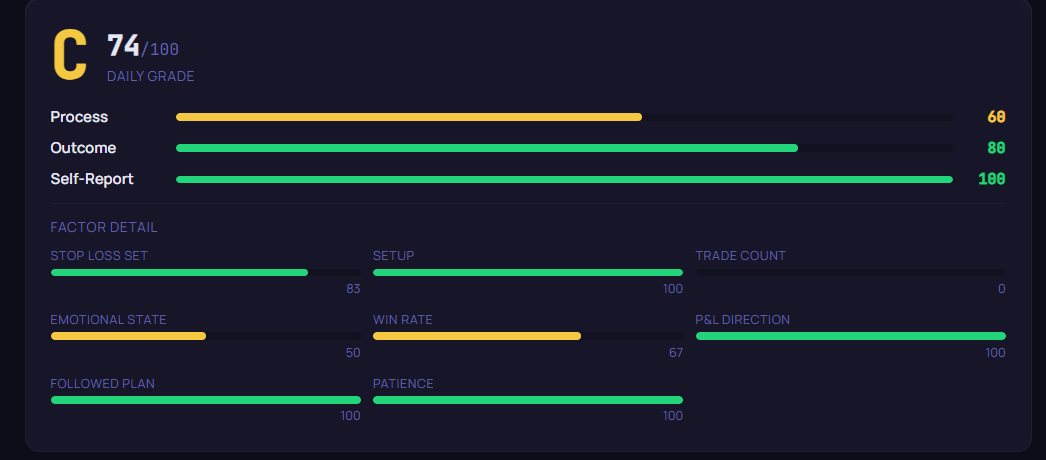
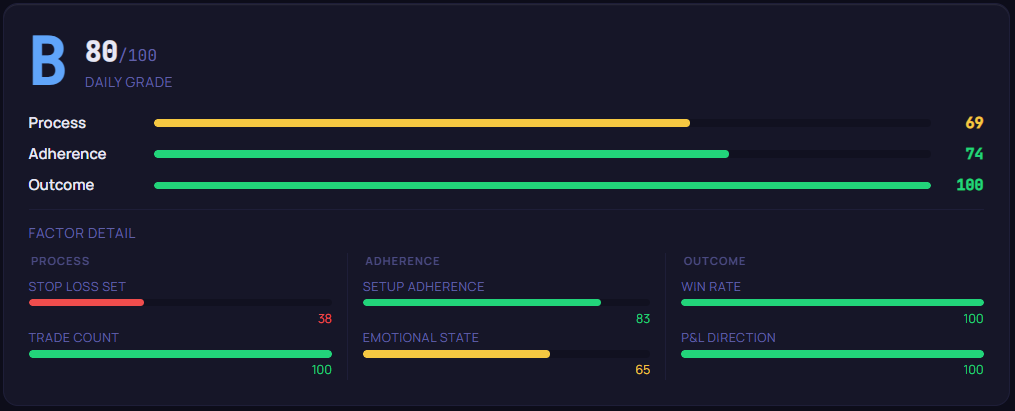
feat: add feature showcase section and update screenshots for new grading system
- Replace hero screenshot with daily review grade card
- Replace report card screenshot with monthly report card
- Add log-entry-checklist.png and setups-settings.png as new assets
- Add 2-column feature showcase section between How It Works and Every Month
- Update CSS with section-features and features-grid (responsive to 1-col on mobile)
- Update hero img alt text

diff --git a/index.html b/index.html
@@ -38,7 +38,7 @@
           <div class="screenshot-frame screenshot-frame--glow fade-up">
             <img
               src="assets/screenshots/daily-review.png"
-              alt="MeritTrader daily review showing an A grade"
+              alt="MeritTrader daily review grade card showing discipline factor breakdown"
               loading="eager"
               width="600"
             >
@@ -124,6 +124,38 @@
               <p>Which session are you most disciplined in? Which days do you overtrade? The data tells you what you can't see in the moment.</p>
             </div>
           </div>
+        </div>
+      </div>
+    </div>
+  </section>
+
+  <!-- FEATURE SHOWCASE -->
+  <section class="section-features">
+    <div class="container">
+      <h2 class="section-title">Your strategy. Your checklist. Your grade.</h2>
+      <p class="section-subtitle">Define the rules that matter to your edge. MeritTrader scores every trade against them — automatically.</p>
+      <div class="features-grid">
+        <div class="month-card">
+          <div class="screenshot-frame fade-up">
+            <img
+              src="assets/screenshots/log-entry-checklist.png"
+              alt="MeritTrader log entry showing a setup checklist"
+              loading="lazy"
+              width="460"
+            >
+          </div>
+          <p class="month-caption">Your strategy rules, turned into a per-trade checklist.</p>
+        </div>
+        <div class="month-card">
+          <div class="screenshot-frame fade-up">
+            <img
+              src="assets/screenshots/setups-settings.png"
+              alt="MeritTrader setup configuration screen"
+              loading="lazy"
+              width="460"
+            >
+          </div>
+          <p class="month-caption">Create and manage your setups — each with its own criteria.</p>
         </div>
       </div>
     </div>

diff --git a/style.css b/style.css
@@ -385,6 +385,20 @@ a { color: inherit; text-decoration: none; }
   line-height: 1.5;
 }
 
+/* ── Feature Showcase Section ── */
+.section-features {
+  padding: 90px 0;
+  border-bottom: 1px solid var(--border);
+  text-align: center;
+}
+.features-grid {
+  display: grid;
+  grid-template-columns: 1fr 1fr;
+  gap: 24px;
+  max-width: 960px;
+  margin: 0 auto;
+}
+
 /* ── Full Picture Section ── */
 .section-report {
   padding: 90px 0;
@@ -430,7 +444,9 @@ a { color: inherit; text-decoration: none; }
     margin-right: auto;
   }
   .months-grid { grid-template-columns: 1fr; }
+  .features-grid { grid-template-columns: 1fr; }
   .section-months,
+  .section-features,
   .section-report { padding: 64px 0; }
 }
 
